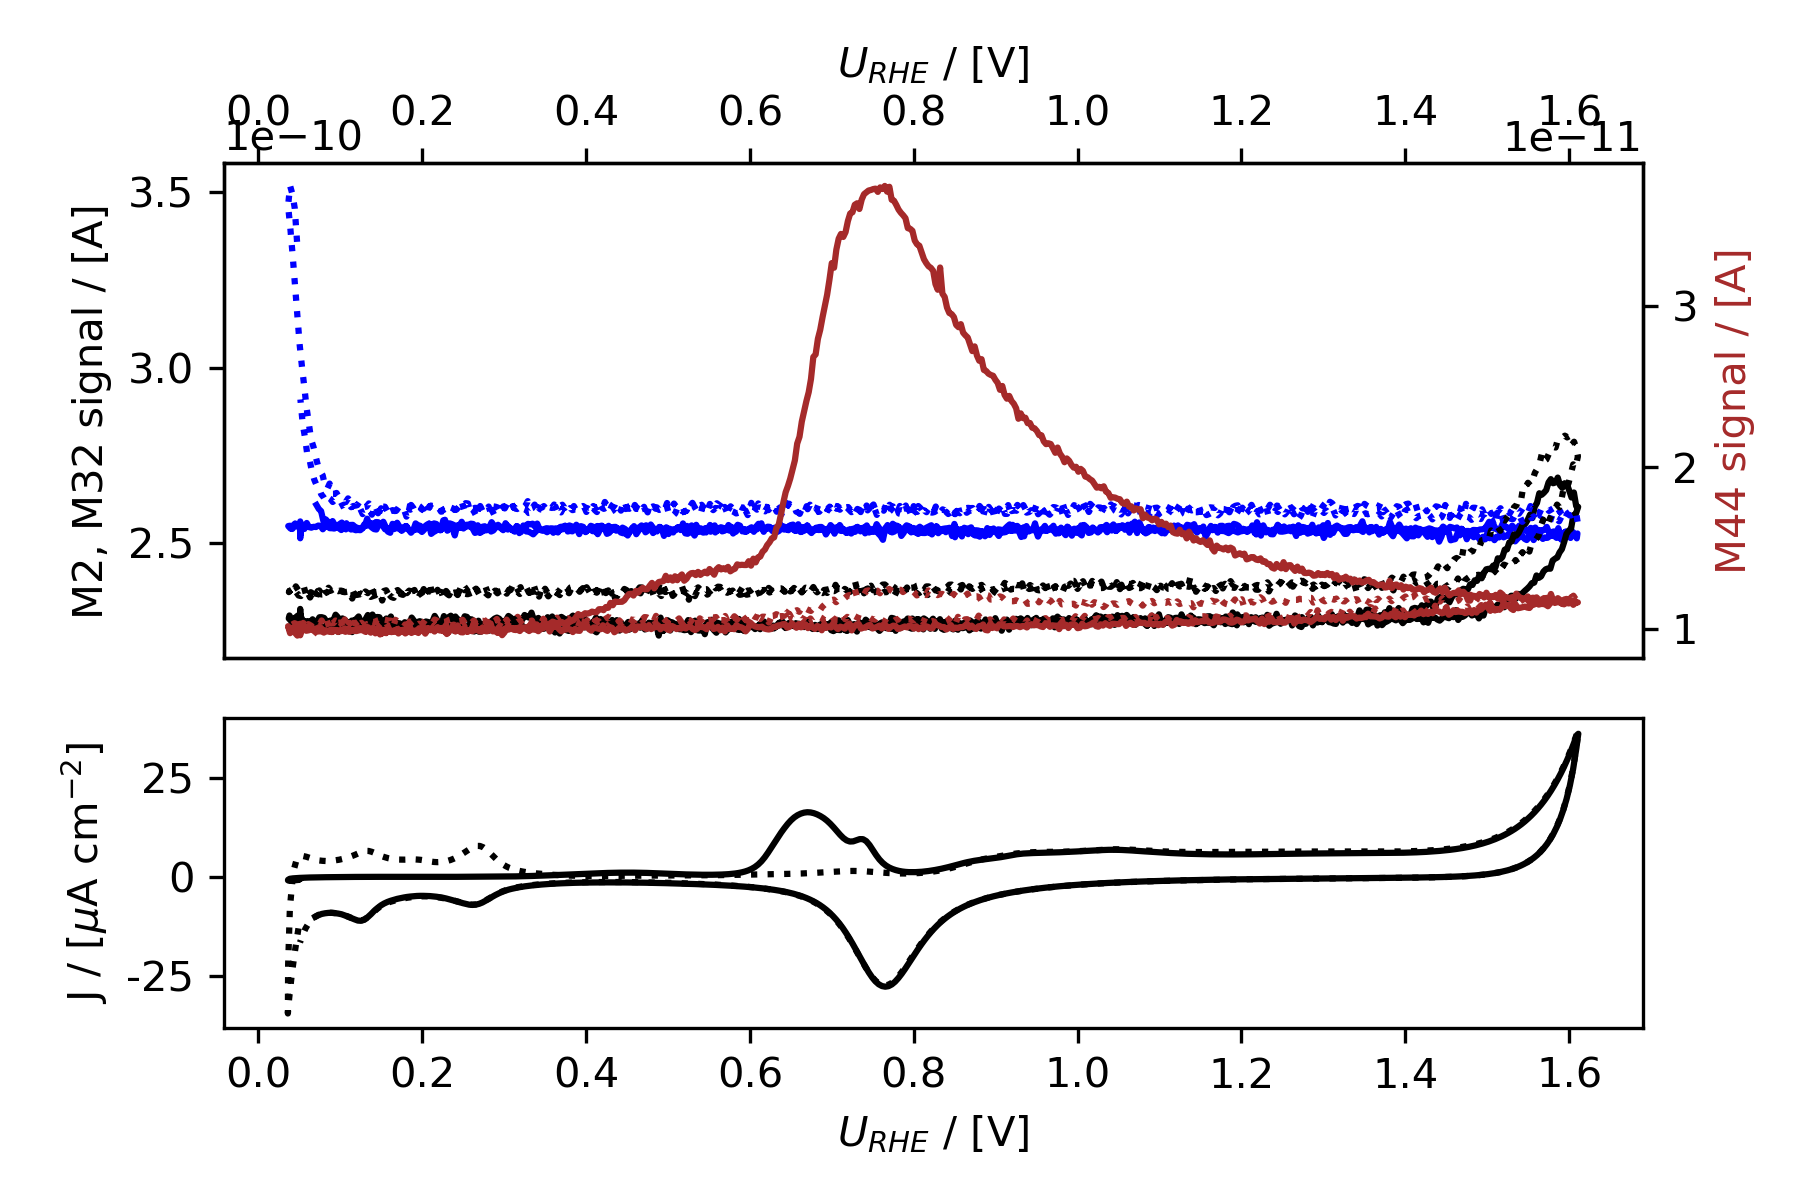
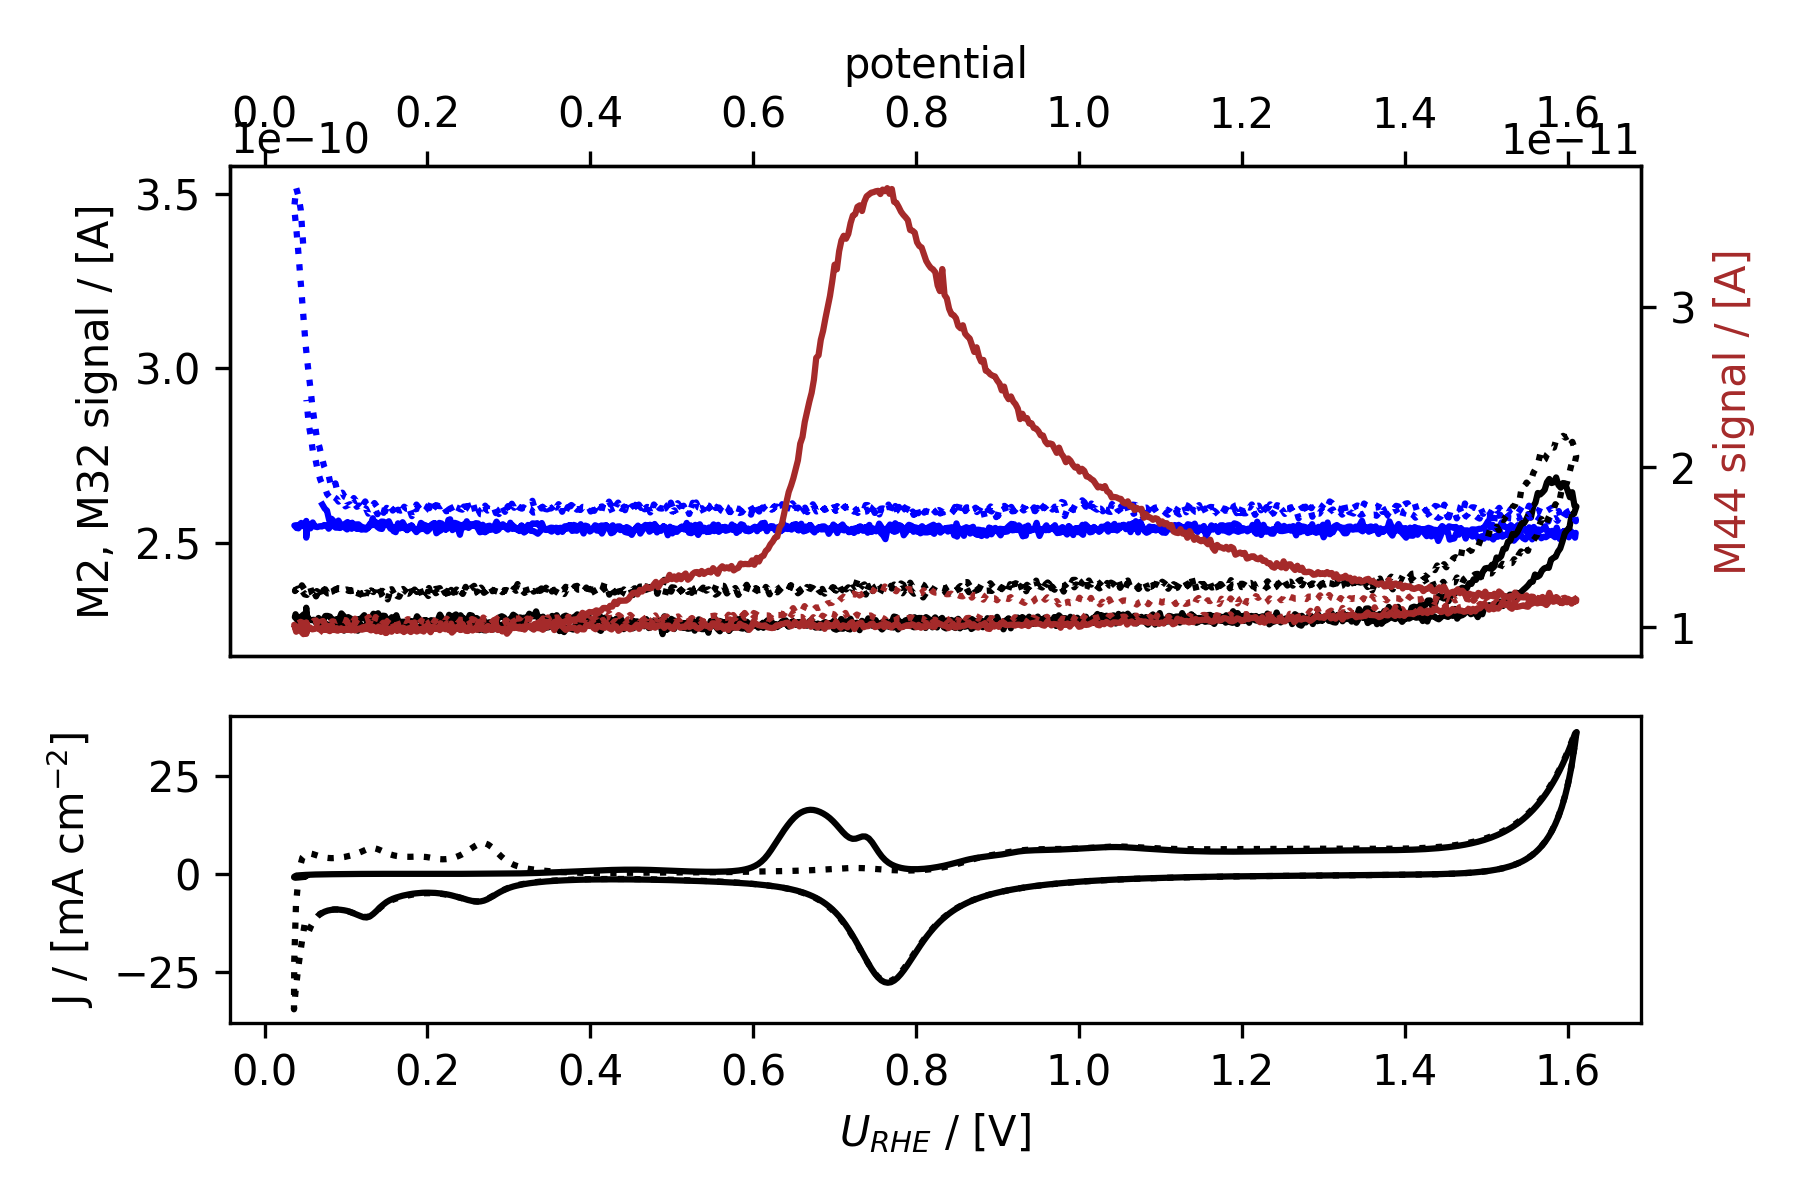
Prepare vs_potential for ixdat v0.2.1dev

Changed region(s): [[0.0311, 0.0308, 0.9644, 0.555], [0.0311, 0.5858, 0.9333, 0.9558], [0.4978, 0.2158, 0.5289, 0.2467]]

diff --git a/CO_strip_application_note/CO_stip_application_note_for_sharing_anw.py b/CO_strip_application_note/CO_stip_application_note_for_sharing_anw.py
@@ -24,7 +24,7 @@ DATA_SOURCE = "ixdat"
 # DATA_SOURCE can be "raw" (for importing EC and MS data from Zilien .tsv file),
 # "raw_biologic" (to import MS data from Zilien .tsv files and EC data from 
 # BioLogic .mpt files), or "ixdat" (for importing ixdat .csv files)
-WHICH_PART = "vs_time"
+WHICH_PART = "vs_potenial"
 # WHICH_PART can be "vs_time", "vs_potential", "integrate+calibrate"
 WHICH_REFERENCE = "reference_cycle"
 # WHICH_REFERENCE determines which cycle is used as a baseline cycle for the 
@@ -55,44 +55,6 @@ FIGURES_DIR = THIS_DIR / "figures"
 
 def main():
     # # -----------------------data importing----------------------------------
-    # # import from the original data files. Note there is no example data included 
-    # # for this part of the script
-    # if DATA_SOURCE == "raw": # option 1: import both EC and MS data from Zilien data file
-    #     full_data = ixdat.Measurement.read(data_directory / "myzilienfile.tsv")
-    #     # set RHE potential of reference electrode, electrode SA (geometric), 
-    #     # and ohmic resistance
-    #     full_data.calibrate(RE_vs_RHE=0, A_el=0.196, R_Ohm=0)
-    #     # save the important colums as ixdat-datafile
-    #     full_data.export(data_directory / "full_data_COstrip_11-11-21.csv")
-        
-    # elif DATA_SOURCE == "raw_biologic": # option 2: import MS data from Zilien data file and combine with 
-    #     # EC data from BioLogic file 
-    #     zil_data = MSMeasurement.read(data_directory / "myzilienfile.tsv", reader="zilien")
-    #     ec_data = ixdat.Measurement.read(data_directory / "mybiologicfile.mpt", reader="biologic") #this will require exchanging some of the columns. need to put this in here too 
-    #     # set RHE potential of reference electrode, electrode SA (geometric),
-    #     # and ohmic resistance
-    #     ec_data.calibrate(RE_vs_RHE=0, A_el=0.196, R_Ohm=0)
-    #     full_data = zil_data + ec_data
-    #     # save the important colums as ixdat-datafile
-    #     full_data.export(data_directory /"full_data_COstrip_11-11-21.csv")
-             
-    # elif DATA_SOURCE == "ixdat": # option 3: import from ixdat-datafiles
-    #     part1 = ixdat.Measurement.read(data_directory / "data_part1_COstrip_11-11-21.csv", reader="ixdat", aliases = {"t": ["time/s"], "raw_potential": ["Ewe/V", "raw potential / [V]"], "raw_current": ["I/mA", "raw current / [mA]"]})    
-    #     part2 = ixdat.Measurement.read(data_directory / "data_part2_COstrip_11-11-21.csv", reader="ixdat", aliases = {"t": ["time/s"], "raw_potential": ["Ewe/V", "raw potential / [V]"], "raw_current": ["I/mA", "raw current / [mA]"]})
-    #     full_data = part1 + part2
-        
-    #     # calculating the difference between CVs does not (yet) work for ECMSMeasurement
-    #     # objects, therefore import snippets of the pure EC data as directly imported 
-    #     # from (note this should be fixed in ixdat vs 0.1.7 (?) onwards)
-    #     ec_part1 = ixdat.Measurement.read(data_directory / "ecdata_part1_COstrip_11-11-21.csv", reader="ixdat", aliases = {"t": ["time/s"], "raw_potential": ["Ewe/V", "raw potential / [V]"], "raw_current": ["I/mA", "raw current / [mA]"]})    
-    #     ec_part2 = ixdat.Measurement.read(data_directory / "ecdata_part2_COstrip_11-11-21.csv", reader="ixdat", aliases = {"t": ["time/s"], "raw_potential": ["Ewe/V", "raw potential / [V]"], "raw_current": ["I/mA", "raw current / [mA]"]})
-    #     ec_data = ec_part1 + ec_part2
-        
-    # else:
-    #     raise NameError("DATA_SOURCE not recognized.")
-        
-        
-        # -----------------------data importing-new------------------------------
     # import from the original data files. Note there is no example data included 
     # for this part of the script
     # csv files provided are as close to original datafiles as possible, chosen
@@ -100,26 +62,32 @@ def main():
     if DATA_SOURCE == "raw": # option 1: import both EC and MS data from Zilien data file
         full_data = ixdat.Measurement.read(data_directory / "myzilienfile.tsv")
         # save the important colums as ixdat-datafile
-        full_data.export(data_directory / "zilien_full_data_COstrip_11-11-21.csv")
+        full_data.export(data_directory / "full_data_COstrip_11-11-21.csv")
         
     elif DATA_SOURCE == "raw_biologic": # option 2: import MS data from Zilien data file and combine with 
     # EC data from BioLogic file 
         zil_data = MSMeasurement.read(data_directory / "myzilienfile.tsv", reader="zilien")
-        #remove the EC columns from the zilien file:
+        # remove the EC columns from the zilien file:
         zil_data.replace_series("Ewe/V", None)
         zil_data.replace_series("I/mA", None)
         ec_data = ixdat.Measurement.read(data_directory / "mybiologicfile.mpt", reader="biologic")
         full_data = zil_data + ec_data
+        full_data.export(data_directory / "full_data_COstrip_11-11-21.csv")
 
     elif DATA_SOURCE == "ixdat": # option 3: import from ixdat-datafiles, both for ec and ms
+        # if full data saved as csv using one of the above options, uncomment the following line
+        # and outcomment all the lines below until the end of this elif clause
+        # full_data = ixdat.Measurement.read(data_directory / "full_data_COstrip_11-11-21.csv", reader=ixdat)
         part1 = ixdat.Measurement.read(data_directory / "data_part1_COstrip_11-11-21.csv", reader="ixdat")    
         part2 = ixdat.Measurement.read(data_directory / "data_part2_COstrip_11-11-21.csv", reader="ixdat")
         zil_data = part1 + part2
-        #remove the EC columns from the zilien file:
+        # remove the EC columns from the zilien file:
         zil_data.replace_series("Ewe/V", None)
         zil_data.replace_series("I/mA", None)
+        # import EC data from csv files of the ECLab data
         ec_part1 = ixdat.Measurement.read(data_directory / "ecdata_part1_COstrip_11-11-21.csv", reader="ixdat")    
         ec_part2 = ixdat.Measurement.read(data_directory / "ecdata_part2_COstrip_11-11-21.csv", reader="ixdat")
+        # combine MS and EC data
         ec_data = ec_part1 + ec_part2
         full_data = zil_data + ec_data
         
@@ -136,7 +104,6 @@ def main():
     # This means in particular all the data treatment of the EC files has to be 
     # adjusted for tspans etc. this is a mess to do but will hopefully make the 
     # code easier to understand. 
-
     
     # ------------------- data treatment & plotting ---------------------------
     # ------------------- cut dataset -----------------------------------------
@@ -172,7 +139,7 @@ def main():
         axes_b[0].set_ylabel("M4, M28, M44 signal / [A]")
         axes_b[1].set_yticks([0,0.5, 1, 1.5])
         axes_b[3].set_yticks([-25, 0, 25, 50])
-        axes_b[3].set_ylabel("J / [$\mu$A cm$^{-2}$]")
+        axes_b[3].set_ylabel("J / [$\mu$A cm$^{-2}$]") #manually change the label for the right current unit
         co_strip_vs_t_fig = axes_b[0].get_figure()
         co_strip_vs_t_fig.tight_layout()
         if SAVE_FIGURES is True:
@@ -194,9 +161,8 @@ def main():
         axes_c[0].set_ylabel("M2, M32 signal / [A]")
         axes_c[2].set_ylabel("M44 signal / [A]", color="brown")
         axes_c[0].set_xlabel("$U_{RHE}$ / [V]")
-        axes_c[1].set_yticks([-0.025, 0, 0.025])
-        axes_c[1].set_yticklabels([-25, 0, 25])
-        axes_c[1].set_ylabel("J / [$\mu$A cm$^{-2}$]")
+        axes_c[1].set_yticks([-25, 0, 25])
+        axes_c[1].set_ylabel("J / [$\mu$A cm$^{-2}$]") #manually change the label for the right current unit
         costrip_vs_u_fig = axes_c[0].get_figure()
         costrip_vs_u_fig.tight_layout()
         if SAVE_FIGURES is True:
